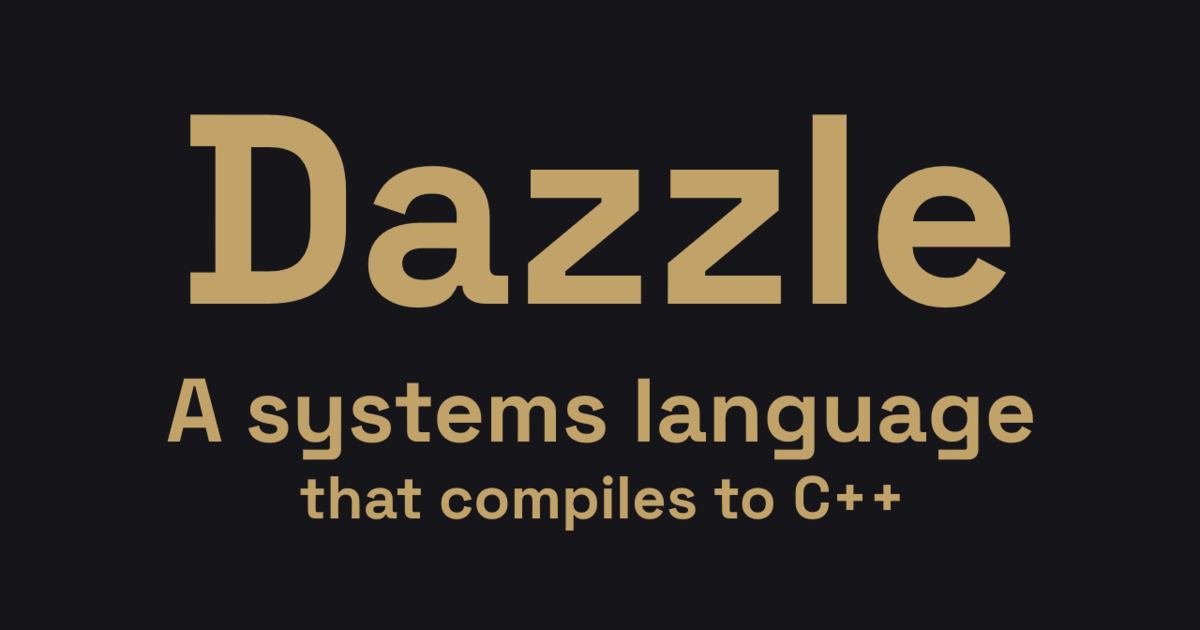
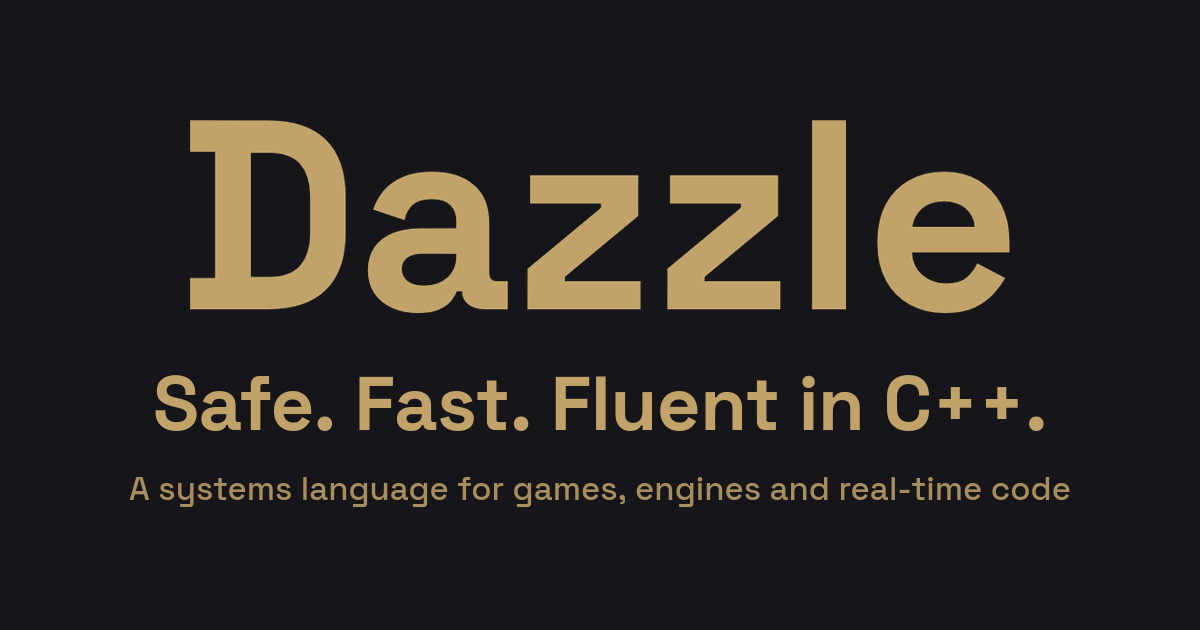
Safe. Fast. Fluent in C++.
The front page leads with what Dazzle is now rather than with how it is built. The hero
is the new slogan, and "What Dazzle is" has a card for each part of it: safe code with no
undefined behaviour and no borrow checker, programs as fast as their C++, C and C++
libraries used from source, and simpler than C++ where C++ is hard. A new section shows
the f0a0ab9 run's ratios in a table. The title, description, structured data, the social
image (re-rendered in the same wordmark, colours and type) and its alt text say the same.

Why Dazzle names speed with safety, status and the Carbon comparison describe Dazzle as
it is, and the playground gains a Safety example, before the mistake: wrapping, a shift
taken modulo the width, a saturating conversion, a pointer handled with `or`, a static
checked through its kills clause, and a division by zero that panics naming its line.

diff --git a/src/styles/custom.css b/src/styles/custom.css
@@ -41,6 +41,23 @@
 	color: var(--sl-color-accent);
 }
 
+/* The front page's speed table: Dazzle's time as a multiple of C++'s, ahead in bold. */
+.dz-speed table {
+	width: 100%;
+	display: table;
+	margin-block: 1rem;
+}
+.dz-speed th:first-child {
+	text-align: start;
+}
+.dz-speed td:not(:first-child) {
+	font-variant-numeric: tabular-nums;
+	white-space: nowrap;
+}
+.dz-speed b {
+	color: var(--sl-color-accent-high);
+}
+
 /* Diagnostics are wide (a help line can run past a hundred columns), so they stack. */
 .dz-pair {
 	display: grid;

diff --git a/src/content/docs/compare/carbon-cpp2.md b/src/content/docs/compare/carbon-cpp2.md
@@ -13,7 +13,7 @@ Carbon, cpp2 and Dazzle start from the same place: C++ is chosen for control and
 | Toolchain | Translates to C++ | Its own, built on LLVM | Your C++ compiler: clang++, g++, a vendor's |
 | Semantics | C++'s | Its own | Its own |
 | Mixing with C++ | In the same file | Bidirectional, deep interop | Calls C and C++ headers; its output is C++ that links with yours |
-| Status | Experimental | Experimental | Pre-release: compiles, runs, checks ownership, has a language server |
+| Status | Experimental | Experimental | Pre-release: safe code has no undefined behaviour, runs about as fast as C++, has a language server |
 
 ## cpp2 (cppfront)
 
@@ -40,7 +40,7 @@ Dazzle shares Carbon's goal, an upgrade of C++ for the projects that use it, and
 - **Nothing underneath changes.** The C++ compiler's optimiser, debuggers, profilers and sanitizers apply as they are, with `#line` directives mapping everything back to your `.dz` source.
 - **Adoption is a module at a time.** A Dazzle module is C++ to the code around it, so a project adopts it without changing its compiler or its build.
 - **C and C++ libraries come from source.** `dz` builds a library from a few lines of manifest and imports its header with the same flags the output is compiled with: namespaces, classes, constructors, overloaded methods, references and template instances.
-- **It is usable now.** Dazzle compiles and runs programs, checks ownership, has a language server and VS Code extension, a formatter, built-in tests and benchmarks, and a small game written in it.
+- **It is usable now.** Dazzle compiles and runs programs about as fast as their C++, with no undefined behaviour outside `unsafe`, and has a language server and VS Code extension, a formatter, built-in tests and benchmarks, and a complete game written in it.
 - **A smaller language to learn**, built to be learned from the compiler: stable diagnostic codes, a `help:` line on nearly every error, and `dz explain`.
 
 ### Where Carbon's route pays off

diff --git a/src/content/docs/start/why-dazzle.md b/src/content/docs/start/why-dazzle.md
@@ -7,11 +7,12 @@ C++ is chosen for control: predictable performance, deterministic destruction, n
 
 The usual answer is a smaller language. C, and successors such as Odin, give back the clarity, and take away what a large codebase is built from: RAII, encapsulation the compiler enforces, and layers of abstraction that hold up as the code grows. Being small is not the goal, so Dazzle is not small.
 
-**Dazzle is an upgrade of C++.** It keeps the machine model and the abstractions, and changes the parts that make C++ hard:
+**Dazzle is an upgrade of C++: safe, fast, and fluent in C++.** It keeps the machine model and the abstractions, and changes the parts that make C++ hard:
 
-- **RAII in three members**, a constructor, `drop` and `copy`, with moves and assignments written by the compiler.
 - **No undefined behaviour in safe code**, without a borrow checker or lifetime annotations.
-- **No allocator to pass around**: the compiler decides where each value's memory comes from.
+- **As fast as the C++ you would write**: whole programs written idiomatically in both languages take 0.77 to 1.17 times as long in Dazzle ([benchmarks](/project/benchmarks/)).
+- **No allocator to pass around**: the compiler decides where each value's memory comes from, in a scope's region whenever it can prove that safe.
+- **RAII in three members**, a constructor, `drop` and `copy`, with moves and assignments written by the compiler.
 - **Errors as values**, with one `or` clause to handle them, instead of exceptions.
 - **Generics checked where they are written**, so an error is reported in your code, once.
 - **Encapsulation the compiler enforces**, private by default.

diff --git a/src/content/docs/project/status.md b/src/content/docs/project/status.md
@@ -7,7 +7,7 @@ description: The status of the Dazzle programming language. What is done, what i
 The language is **0.1, unreleased**, and **expected to change**. Every change to it is a revision row in the [changelog](/spec/21-changelog/).
 :::
 
-Dazzle compiles and runs programs, checks ownership, calls C and C++, and has a language server; it already carries a small game. It is not finished: 0.1 is declared once the editor support, the standard library and C++ interop are all complete. Until then the version number stays at 0.1, and the specification is revised rather than versioned.
+Dazzle compiles and runs programs with no undefined behaviour outside `unsafe`, about as fast as the same programs in C++. It places memory itself, calls C and C++ libraries built from source, has a language server, and already carries a complete game and a real-time 3D scene. It is not finished: 0.1 is declared once the editor support, the standard library and C++ interop are all complete. Until then the version number stays at 0.1, and the specification is revised rather than versioned.
 
 ## Status
 
